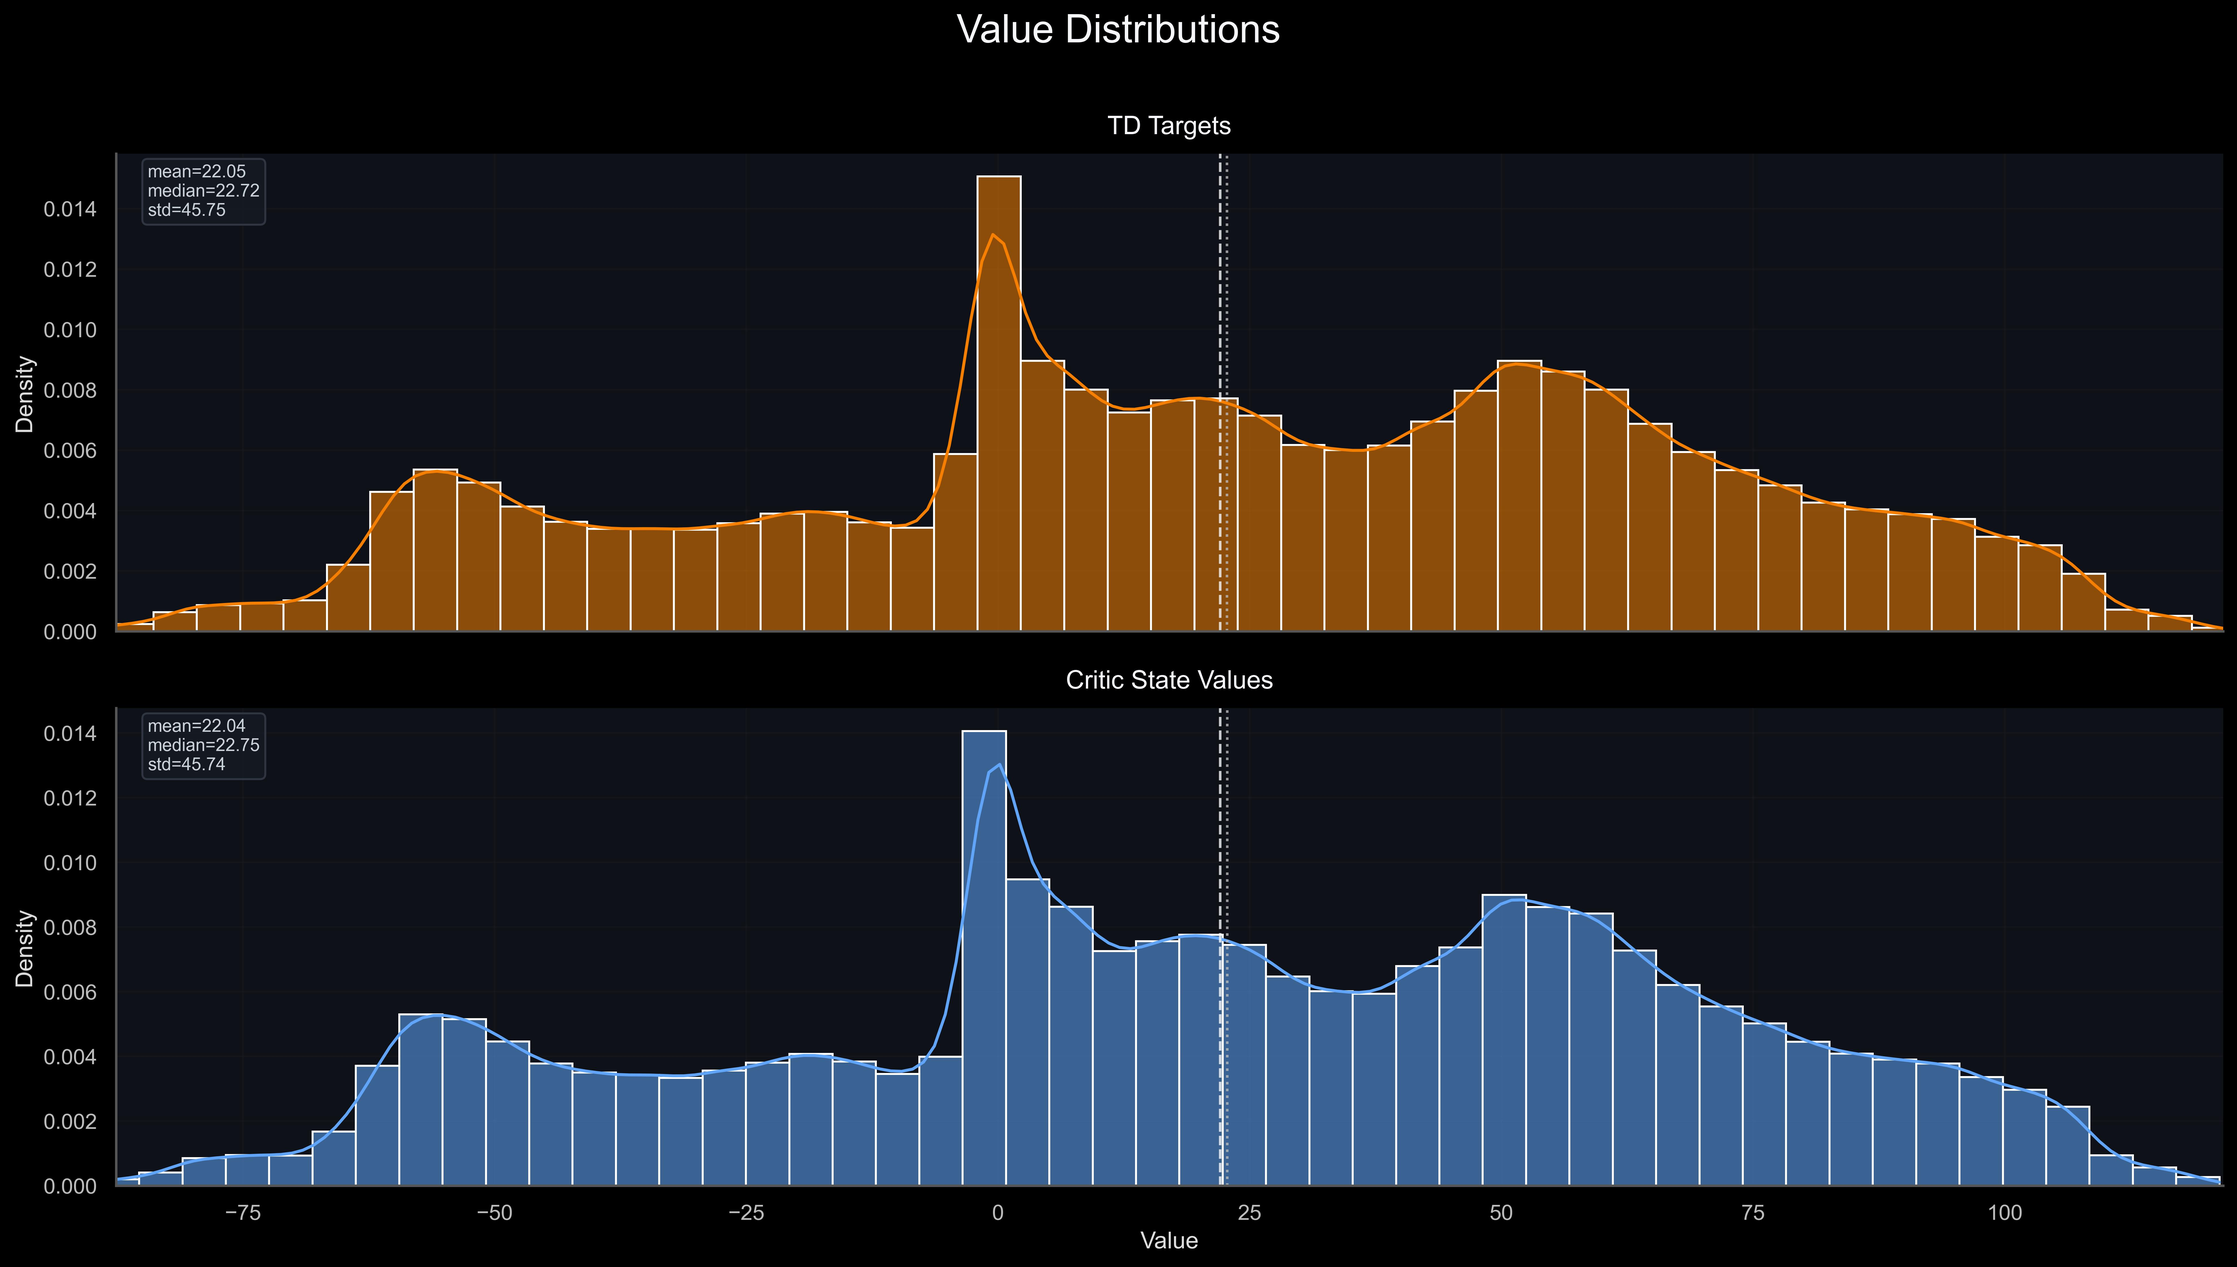
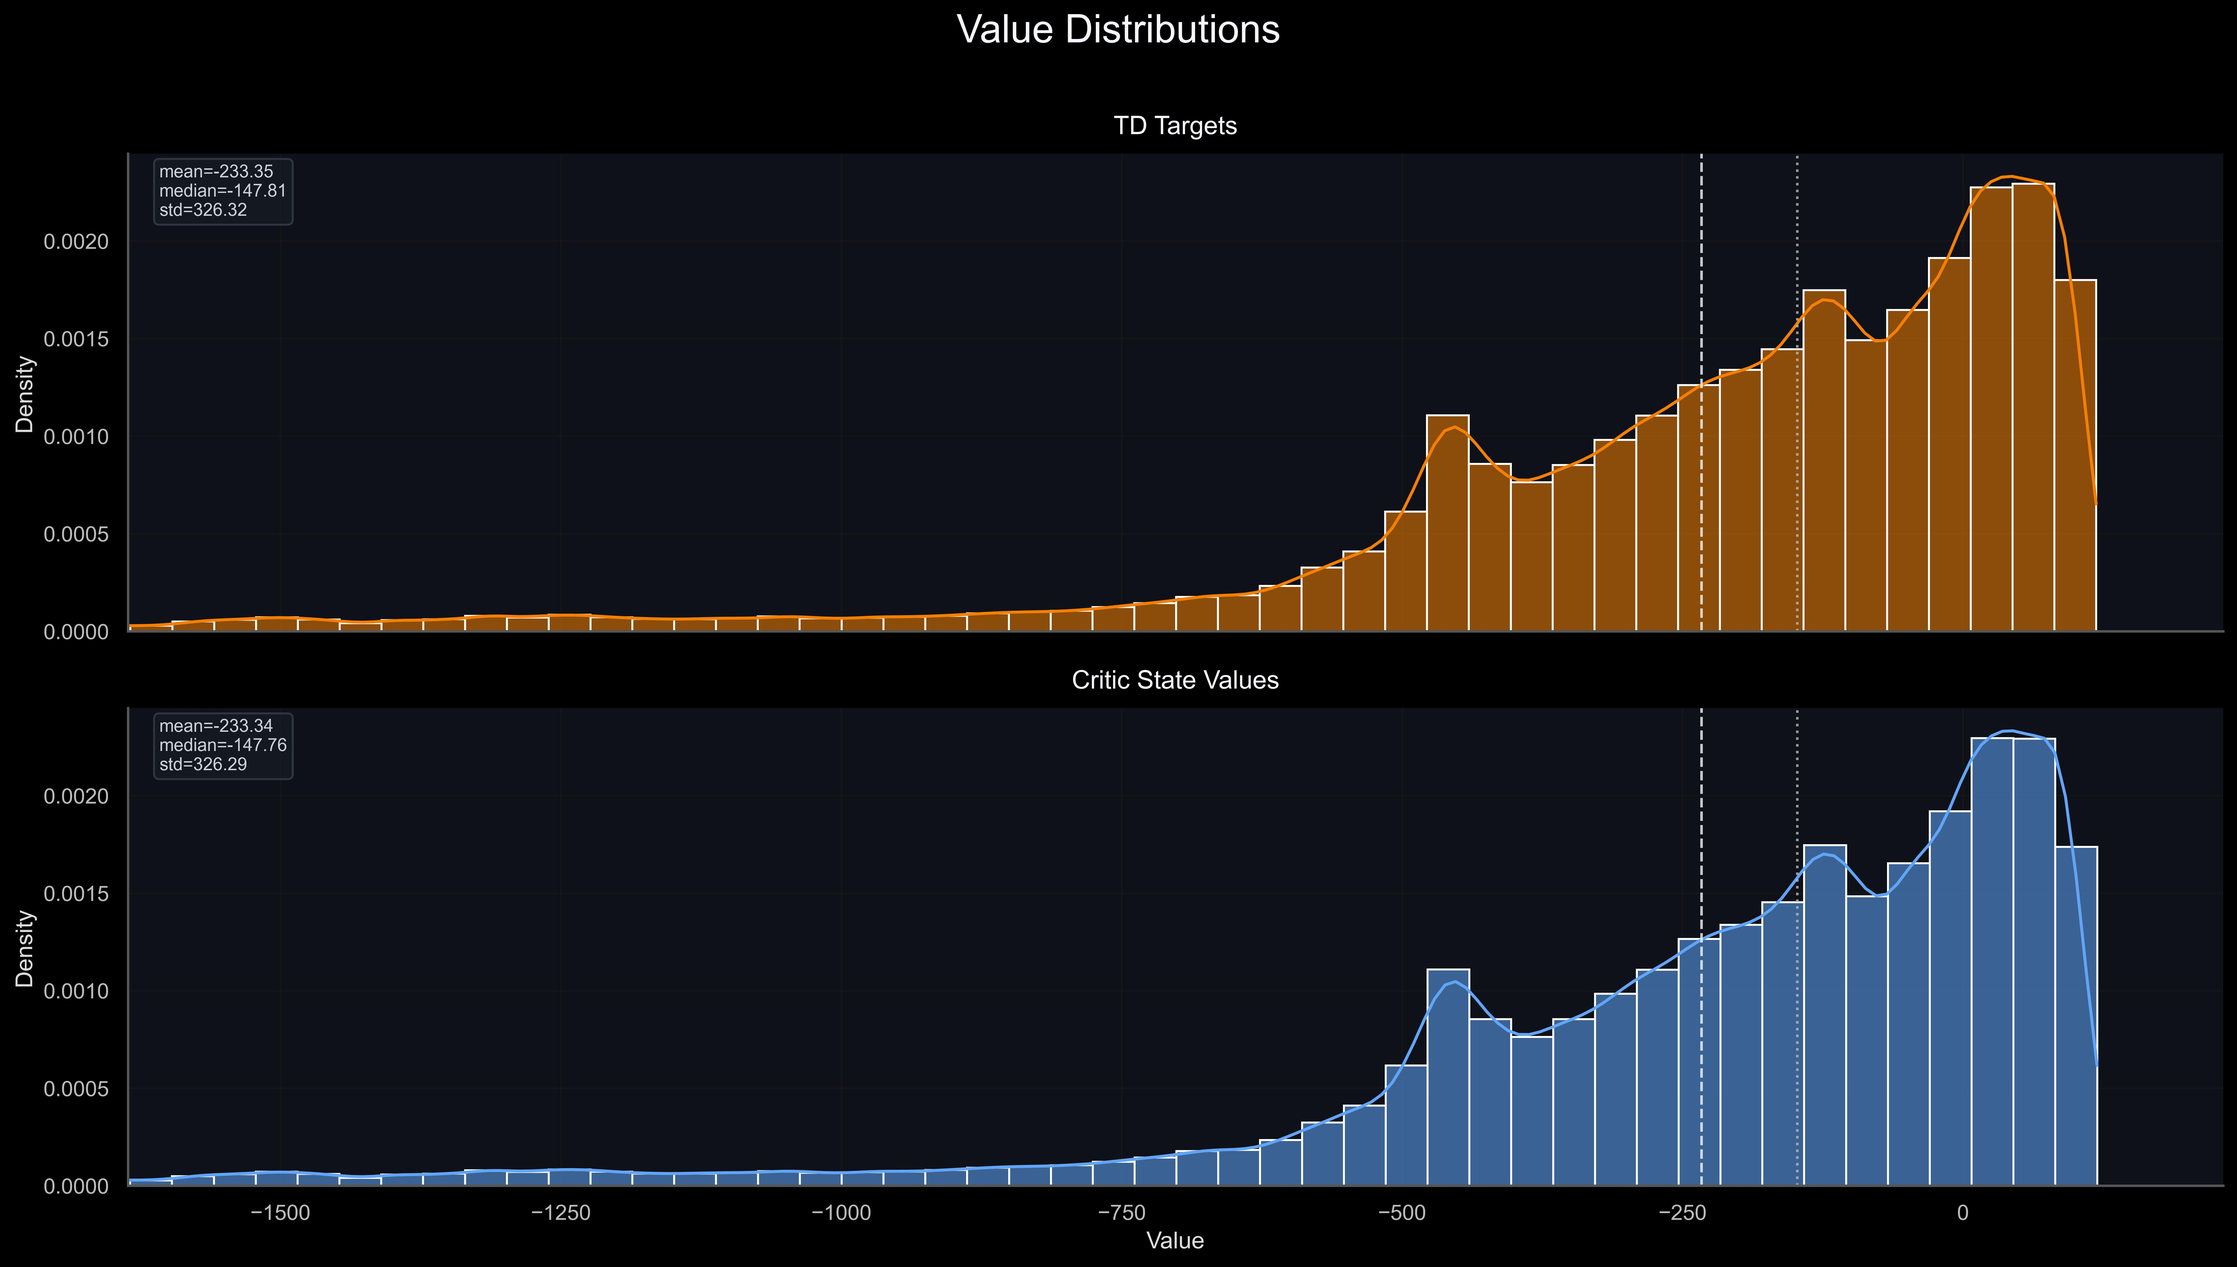
checkpoint

diff --git a/tests/test_terminal_rewards.py b/tests/test_terminal_rewards.py
@@ -1,33 +1,37 @@
 import unittest
+from unittest.mock import patch
 
 import numpy as np
 
 from physics_env.core.config import (
     CRITICAL_TILT_ANGLE,
+    HEIGHT_REWARD_DECAY_MARGIN,
     JOINT_LIMIT_THRESHOLD,
+    MAX_BODY_HEIGHT,
     MAX_CONSECUTIVE_CRITICAL_TILT_STEPS,
     MAX_CONSECUTIVE_JOINT_LIMIT_STEPS,
     TERMINAL_PENALTY_CRITICAL_TILT,
     TERMINAL_PENALTY_JOINT_LIMIT_TIMEOUT,
     TERMINAL_PENALTY_TOO_HIGH,
+    TILT_NO_REWARD_ANGLE,
 )
 from physics_env.envs.quadruped_env import QuadrupedEnv
 
 
 class TerminalRewardsTest(unittest.TestCase):
-    def test_too_high_applies_terminal_penalty(self):
+    def test_too_high_applies_terminal_penalty_without_ending_episode(self):
         env = QuadrupedEnv(rendering=False, headless=True, bench_mode=False)
         env.quadruped.position[1] = 6.2
         env.consecutive_steps_above_critical_height = 21
 
         _, reward, done, _ = env.step([0, 0, 0, 0], [0, 0, 0, 0])
 
-        self.assertTrue(done)
+        self.assertFalse(done)
         self.assertEqual(env.last_done_reason, "too_high")
         self.assertAlmostEqual(env.last_reward_components["terminal_event_reward"], TERMINAL_PENALTY_TOO_HIGH, places=6)
         self.assertLessEqual(reward, TERMINAL_PENALTY_TOO_HIGH + 10.0)
 
-    def test_critical_tilt_applies_terminal_penalty(self):
+    def test_critical_tilt_applies_terminal_penalty_without_ending_episode(self):
         env = QuadrupedEnv(rendering=False, headless=True, bench_mode=False)
         env.quadruped.orientation = env.quadruped._euler_to_quaternion(np.array([0.0, 0.0, CRITICAL_TILT_ANGLE + 0.2]))
         env.quadruped.sync_euler_from_orientation()
@@ -35,20 +39,99 @@ class TerminalRewardsTest(unittest.TestCase):
 
         _, _, done, _ = env.step([0, 0, 0, 0], [0, 0, 0, 0])
 
-        self.assertTrue(done)
+        self.assertFalse(done)
         self.assertEqual(env.last_done_reason, "critical_tilt")
         self.assertAlmostEqual(env.last_reward_components["terminal_event_reward"], TERMINAL_PENALTY_CRITICAL_TILT, places=6)
 
-    def test_joint_limit_timeout_applies_terminal_penalty(self):
+    def test_joint_limit_timeout_applies_terminal_penalty_without_ending_episode(self):
         env = QuadrupedEnv(rendering=False, headless=True, bench_mode=False)
         env.quadruped.shoulder_angles[0] = JOINT_LIMIT_THRESHOLD + 0.05
         env.consecutive_shoulder_limit_steps[0] = MAX_CONSECUTIVE_JOINT_LIMIT_STEPS
 
         _, _, done, _ = env.step([0, 0, 0, 0], [0, 0, 0, 0])
 
-        self.assertTrue(done)
+        self.assertFalse(done)
         self.assertEqual(env.last_done_reason, "joint_limit_timeout")
         self.assertAlmostEqual(env.last_reward_components["terminal_event_reward"], TERMINAL_PENALTY_JOINT_LIMIT_TIMEOUT, places=6)
+
+    def test_positive_rewards_are_scaled_down_smoothly_when_tilt_grows(self):
+        upright_env = QuadrupedEnv(rendering=False, headless=True, bench_mode=False)
+        high_tilt_env = QuadrupedEnv(rendering=False, headless=True, bench_mode=False)
+
+        for env in (upright_env, high_tilt_env):
+            env.prev_potential = 0.0
+            env.quadruped.position[2] = -0.02
+            env.quadruped.velocity[2] = -0.5
+
+        high_tilt_env.quadruped.orientation = high_tilt_env.quadruped._euler_to_quaternion(
+            np.array([0.0, 0.0, TILT_NO_REWARD_ANGLE + 0.05])
+        )
+        high_tilt_env.quadruped.sync_euler_from_orientation()
+
+        with patch("physics_env.envs.quadruped_env.update_quadruped", lambda quadruped: None):
+            _, upright_reward, upright_done, _ = upright_env.step([0, 0, 0, 0], [0, 0, 0, 0])
+            _, high_tilt_reward, high_tilt_done, _ = high_tilt_env.step([0, 0, 0, 0], [0, 0, 0, 0])
+
+        self.assertFalse(upright_done)
+        self.assertFalse(high_tilt_done)
+
+        upright_components = upright_env.last_reward_components
+        high_tilt_components = high_tilt_env.last_reward_components
+
+        self.assertGreater(upright_components["distance_reward"], high_tilt_components["distance_reward"])
+        self.assertGreater(high_tilt_components["distance_reward"], 0.0)
+        self.assertGreater(upright_components["z_speed_reward"], high_tilt_components["z_speed_reward"])
+        self.assertGreater(high_tilt_components["z_speed_reward"], 0.0)
+        self.assertGreater(upright_components["stability_bonus"], high_tilt_components["stability_bonus"])
+        self.assertGreater(high_tilt_components["tilt_reward_scale"], 0.0)
+        self.assertLess(high_tilt_components["tilt_reward_scale"], 1.0)
+        self.assertLess(high_tilt_reward, upright_reward)
+
+    def test_positive_rewards_are_scaled_down_smoothly_when_height_drifts(self):
+        upright_env = QuadrupedEnv(rendering=False, headless=True, bench_mode=False)
+        high_env = QuadrupedEnv(rendering=False, headless=True, bench_mode=False)
+
+        for env in (upright_env, high_env):
+            env.prev_potential = 0.0
+            env.quadruped.position[2] = -0.02
+            env.quadruped.velocity[2] = -0.5
+
+        high_env.quadruped.position[1] = MAX_BODY_HEIGHT + HEIGHT_REWARD_DECAY_MARGIN * 0.4
+
+        with patch("physics_env.envs.quadruped_env.update_quadruped", lambda quadruped: None):
+            _, upright_reward, upright_done, _ = upright_env.step([0, 0, 0, 0], [0, 0, 0, 0])
+            _, high_reward, high_done, _ = high_env.step([0, 0, 0, 0], [0, 0, 0, 0])
+
+        self.assertFalse(upright_done)
+        self.assertFalse(high_done)
+
+        upright_components = upright_env.last_reward_components
+        high_components = high_env.last_reward_components
+
+        self.assertEqual(upright_components["height_reward_scale"], 1.0)
+        self.assertGreater(high_components["height_reward_scale"], 0.0)
+        self.assertLess(high_components["height_reward_scale"], 1.0)
+        self.assertGreater(upright_components["distance_reward"], high_components["distance_reward"])
+        self.assertGreater(high_components["distance_reward"], 0.0)
+        self.assertGreater(upright_components["z_speed_reward"], high_components["z_speed_reward"])
+        self.assertGreater(high_components["z_speed_reward"], 0.0)
+        self.assertGreater(upright_components["stability_bonus"], high_components["stability_bonus"])
+        self.assertLess(high_reward, upright_reward)
+
+    def test_backward_motion_does_not_earn_forward_progress_or_checkpoints(self):
+        env = QuadrupedEnv(rendering=False, headless=True, bench_mode=False)
+        env.prev_potential = 0.0
+        env.quadruped.position[2] = 0.8
+        env.quadruped.velocity[2] = 1.0
+
+        with patch("physics_env.envs.quadruped_env.update_quadruped", lambda quadruped: None):
+            _, reward, done, _ = env.step([0, 0, 0, 0], [0, 0, 0, 0])
+
+        self.assertFalse(done)
+        self.assertEqual(env.last_reward_components["distance_reward"], 0.0)
+        self.assertEqual(env.last_reward_components["sparse_reward"], 0.0)
+        self.assertLess(env.last_reward_components["z_speed_reward"], 0.0)
+        self.assertLess(reward, 0.0)
 
 
 if __name__ == "__main__":

diff --git a/physics_env/envs/quadruped_env.py b/physics_env/envs/quadruped_env.py
@@ -96,6 +96,32 @@ class QuadrupedEnv:
         side_tilt = abs(np.arctan2(body_up_world[2], body_up_world[1]))
         return forward_tilt, side_tilt
 
+    def _compute_tilt_reward_scale(self, max_tilt):
+        if max_tilt <= STABILITY_TILT_THRESHOLD:
+            return 1.0
+        if max_tilt >= CRITICAL_TILT_ANGLE:
+            return 0.0
+
+        tilt_window = CRITICAL_TILT_ANGLE - STABILITY_TILT_THRESHOLD
+        if tilt_window <= 0.0:
+            return 0.0
+
+        return float(np.clip((CRITICAL_TILT_ANGLE - max_tilt) / tilt_window, 0.0, 1.0))
+
+    def _compute_height_reward_scale(self, body_height):
+        if MIN_BODY_HEIGHT <= body_height <= MAX_BODY_HEIGHT:
+            return 1.0
+
+        if body_height < MIN_BODY_HEIGHT:
+            overshoot = MIN_BODY_HEIGHT - body_height
+        else:
+            overshoot = body_height - MAX_BODY_HEIGHT
+
+        if HEIGHT_REWARD_DECAY_MARGIN <= 0.0:
+            return 0.0
+
+        return float(np.clip(1.0 - overshoot / HEIGHT_REWARD_DECAY_MARGIN, 0.0, 1.0))
+
     def _get_joint_limit_progress(self):
         shoulder_progress = np.clip(
             self.consecutive_shoulder_limit_steps.astype(np.float32) / MAX_CONSECUTIVE_JOINT_LIMIT_STEPS,
@@ -275,7 +301,9 @@ class QuadrupedEnv:
 
         next_state = self.get_state()
         # ---- REWARD ---
-        # ----------  a) progrès vers l'avant (potentiel en Z) ----------------------
+        # ----------  a) progrès vers l'avant (potentiel signe sur -Z) --------------
+        # L'avant du quadruped est defini par une progression vers les z negatifs.
+        # Utiliser abs(z) rewardait aussi les derivees vers l'arriere.
         forward_progress = max(0.0, -float(self.quadruped.position[2]))
         if self.prev_potential is None:
             distance_reward = 0.0
@@ -290,6 +318,7 @@ class QuadrupedEnv:
 
         # ----------  c)  Pénalité d'inclinaison du corps (pénalité brute) --------------
         forward_tilt, side_tilt = self._compute_body_tilt_angles()
+        max_tilt = max(forward_tilt, side_tilt)
         tilt_excess = max(0.0, forward_tilt - TILT_DEADZONE) + max(0.0, side_tilt - TILT_DEADZONE)
         tilt_penalty = -TILT_PENALTY_COEF * tilt_excess
 
@@ -297,12 +326,13 @@ class QuadrupedEnv:
         sparse_reward = 0.0
         for r in self.circle_radii:
             if forward_progress >= r and r not in self.circles_passed:
-                sparse_reward += 2.0
+                sparse_reward += 5.0
                 self.circles_passed.add(r)
 
         # ----------  Termination checker --------------
-        below_critical_height = self.quadruped.position[1] < 4.5
-        above_critical_height = self.quadruped.position[1] > 5.5
+        body_height = float(self.quadruped.position[1])
+        below_critical_height = body_height < MIN_BODY_HEIGHT
+        above_critical_height = body_height > MAX_BODY_HEIGHT
         height_penalty = HEIGHT_PENALTY if (below_critical_height or above_critical_height) else 0.0
 
         if below_critical_height:
@@ -315,7 +345,7 @@ class QuadrupedEnv:
             self.consecutive_steps_below_critical_height = 0
             self.consecutive_steps_above_critical_height = 0
 
-        critically_tilted = max(forward_tilt, side_tilt) > CRITICAL_TILT_ANGLE
+        critically_tilted = max_tilt > CRITICAL_TILT_ANGLE
         if critically_tilted:
             self.consecutive_steps_critical_tilt += 1
         else:
@@ -340,19 +370,18 @@ class QuadrupedEnv:
         pitch_rate = abs(float(self.quadruped.angular_velocity[0]))
         pitch_rate_penalty = -PITCH_RATE_PENALTY_COEF * min(pitch_rate, MAX_ANGULAR_VELOCITY)
 
-        stable_motion = (
-            max(forward_tilt, side_tilt) < STABILITY_TILT_THRESHOLD
-            and not below_critical_height
-            and not above_critical_height
-            and forward_speed > 0.0
-        )
-        stability_bonus = STABILITY_BONUS if stable_motion else 0.0
+        tilt_reward_scale = self._compute_tilt_reward_scale(max_tilt)
+        height_reward_scale = self._compute_height_reward_scale(body_height)
+        locomotion_reward_scale = tilt_reward_scale * height_reward_scale
 
-        if below_critical_height:
-            distance_reward = min(distance_reward, 0.0)
-            z_speed_reward = min(z_speed_reward, 0.0)
-            sparse_reward = 0.0
-            stability_bonus = 0.0
+        # On attenue progressivement les rewards locomotion quand le corps se couche
+        # ou s'eloigne de sa fenetre de hauteur utile, au lieu de coupures brutales.
+        distance_reward *= locomotion_reward_scale
+        z_speed_reward *= locomotion_reward_scale
+        sparse_reward *= locomotion_reward_scale
+
+        stable_motion = forward_speed > 0.0
+        stability_bonus = STABILITY_BONUS * locomotion_reward_scale if stable_motion else 0.0
 
         joint_limit_timeout = (
             int(self.consecutive_shoulder_limit_steps.max()) > MAX_CONSECUTIVE_JOINT_LIMIT_STEPS
@@ -362,25 +391,19 @@ class QuadrupedEnv:
         done_reason = "running"
         terminal_event_reward = 0.0
 
-        # Le garde-fou "too_high" sert a couper les emballements numeriques.
-        # Le signal "too_low" reste utile pour la penalite et l'etat, mais n'est
-        # plus considere comme une mort automatique.
-        # Un tilt critique soutenu ou une articulation coincee en butee restent
-        # en revanche de vrais echecs de locomotion.
+        # Les etats graves restent penalises, mais ne terminent plus l'episode.
+        # L'objectif est d'eviter que l'agent apprenne a provoquer une terminaison
+        # anticipee plutot qu'a se corriger et continuer a marcher.
         if self.consecutive_steps_above_critical_height > 20:
-            done = True
             done_reason = "too_high"
             terminal_event_reward = TERMINAL_PENALTY_TOO_HIGH
         elif self.consecutive_steps_critical_tilt > MAX_CONSECUTIVE_CRITICAL_TILT_STEPS:
-            done = True
             done_reason = "critical_tilt"
             terminal_event_reward = TERMINAL_PENALTY_CRITICAL_TILT
         elif joint_limit_timeout:
-            done = True
             done_reason = "joint_limit_timeout"
             terminal_event_reward = TERMINAL_PENALTY_JOINT_LIMIT_TIMEOUT
-        else:
-            done = False 
+        done = False
 
         # Inform the quadruped that it is in danger
         self.quadruped.too_high = above_critical_height
@@ -409,6 +432,9 @@ class QuadrupedEnv:
             "height_penalty": float(height_penalty),
             "stability_bonus": float(stability_bonus),
             "terminal_event_reward": float(terminal_event_reward),
+            "tilt_reward_scale": float(tilt_reward_scale),
+            "height_reward_scale": float(height_reward_scale),
+            "locomotion_reward_scale": float(locomotion_reward_scale),
             "forward_tilt_deg": float(np.degrees(forward_tilt)),
             "side_tilt_deg": float(np.degrees(side_tilt)),
         }

diff --git a/physics_env/core/config.py b/physics_env/core/config.py
@@ -70,7 +70,8 @@ MOTOR_DAMPING_DIFFICULTY_BOOST = 0.22
 SLIP_THRESHOLD = 0.02
 STATIC_FRICTION_CAP  = 50.0     # impulsion maximale transmise au quadruped
 TILT_DEADZONE = np.deg2rad(8.0)
-TILT_PENALTY_COEF = 1.5
+TILT_NO_REWARD_ANGLE = np.deg2rad(10.0)
+TILT_PENALTY_COEF = 6.0
 CRITICAL_TILT_ANGLE = np.deg2rad(20.0)
 MAX_CONSECUTIVE_CRITICAL_TILT_STEPS = 45
 JOINT_LIMIT_THRESHOLD = np.pi / 2 * 0.9
@@ -79,12 +80,15 @@ TERMINAL_PENALTY_TOO_HIGH = -4.0
 TERMINAL_PENALTY_CRITICAL_TILT = -3.0
 TERMINAL_PENALTY_JOINT_LIMIT_TIMEOUT = -2.0
 TERMINAL_BONUS_MAX_STEPS = 0.5
-PROGRESS_REWARD_COEF = 50.0
-FORWARD_SPEED_REWARD_COEF = 0.10
+PROGRESS_REWARD_COEF = 20.0
+FORWARD_SPEED_REWARD_COEF = 0.75
 JOINT_LIMIT_PROGRESS_PENALTY_COEF = 1.5
 PITCH_RATE_PENALTY_COEF = 0.08
 HEIGHT_PENALTY = -0.5
-STABILITY_BONUS = 0.05
+MIN_BODY_HEIGHT = 4.5
+MAX_BODY_HEIGHT = 5.5
+HEIGHT_REWARD_DECAY_MARGIN = 0.5
+STABILITY_BONUS = 0.30
 STABILITY_TILT_THRESHOLD = np.deg2rad(6.0)
 
 # ----- Debug Physics Simulation --------------------------------------
@@ -100,8 +104,8 @@ DEBUG_RL_VIZ   = False
 EPISODES  = 2_000
 MAX_STEPS = 500
 
-START_EPS = 0.99
-EPS_DECAY = 0.999
+START_EPS = 0.69
+EPS_DECAY = 0.995
 EPS_MIN   = 0.01
 
 PLOT_INTERVAL = 30

diff --git a/train.py b/train.py
@@ -51,7 +51,7 @@ def run_episode(env: QuadrupedEnv, agent: QuadrupedAgent, epsilon: float, render
 
         # Exécuter l'action dans l'environnement
         next_state, reward, done, step_time = env.step(shoulders, elbows)
-        if step == MAX_STEPS - 1 and not done:
+        if step == MAX_STEPS - 1 and env.last_done_reason == "running":
             reward += TERMINAL_BONUS_MAX_STEPS
             env.last_reward_components["terminal_event_reward"] = float(
                 env.last_reward_components.get("terminal_event_reward", 0.0) + TERMINAL_BONUS_MAX_STEPS
@@ -81,7 +81,7 @@ def run_episode(env: QuadrupedEnv, agent: QuadrupedAgent, epsilon: float, render
     print(f"[TRAIN] Nombre de steps: {steps_count}")
 
     metrics = agent.train_model(epsilon)
-    final_done_reason = env.last_done_reason if done else "max_steps"
+    final_done_reason = env.last_done_reason if env.last_done_reason != "running" else "max_steps"
     # Ajouter le nombre de steps aux métriques
     metrics['steps_count'] = steps_count
     metrics['done_reason_too_high'] = 1.0 if final_done_reason == "too_high" else 0.0

diff --git a/main.py b/main.py
@@ -19,7 +19,7 @@ agent = QuadrupedAgent(
     action_size=ACTION_SIZE,
     gamma=GAMMA,
     learning_rate=ALPHA,
-    load_model=False,
+    load_model=True,
     load_path=f"saved_models/quadruped_agent.pth",
 )
 

diff --git a/README.md b/README.md
@@ -35,6 +35,7 @@ r_t = 0.2\,[d_t>d_{t-1}] \;+\; 20\,(d_t - d_{t-1}) \;-\; 0.5\,\mathbb{1}_{\text{
 ```
 
 plus sparse bonuses of $+2$ when crossing radii $\{0.5,0.75,1,\dotsc,10\}$.  
+Positive locomotion rewards are clipped to zero whenever the maximum body tilt exceeds $10^\circ$.  
 Episodes terminate when height leaves $[4.5,5.5]$ for a sustained window or when the maximum number of steps is reached.
 
 ---
